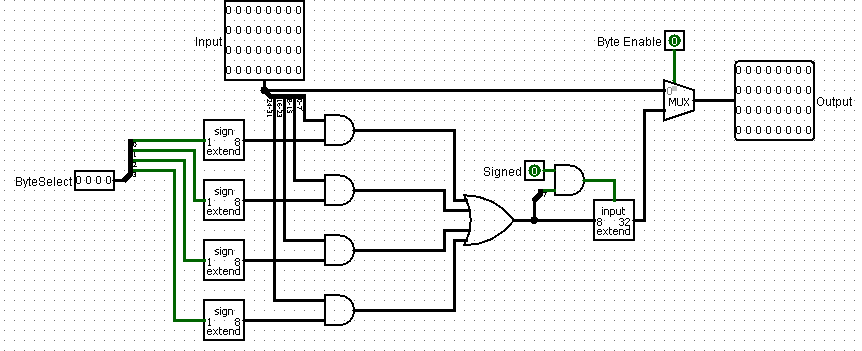
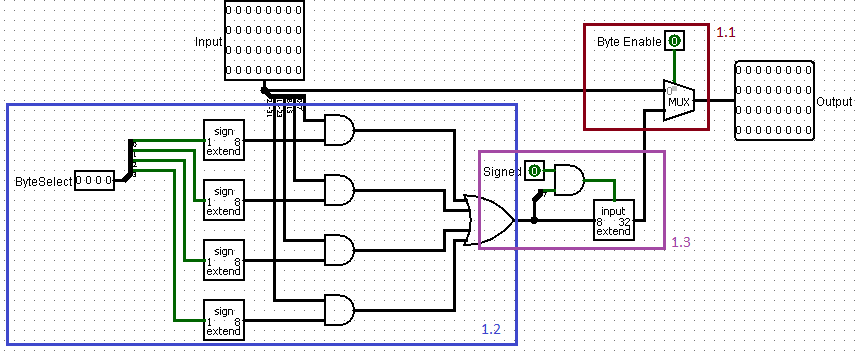
fd

Changed region(s): [[0.0, 0.2849, 0.8144, 0.9972], [0.6636, 0.057, 0.8445, 0.3704]]

diff --git a/3410proj/DesignDoc/ex.tex b/3410proj/DesignDoc/ex.tex
@@ -135,6 +135,39 @@ The final output is the Byte Select. The AND gates in (1.2) extract from the fir
 \includegraphics{ByteExtract.png} 
  The Byte Extract, much as the name suggests, extracts the byte from RAM output in LB and LBU instructions, and does nothing otherwise.
  
- From the MUX in (1.1), the 
+ From the MUX in (1.1), the output is just the original input if the memory instruction is a word instruction. 
+ 
+ In (1.2), since the Byte select will only have 1 nonzero bit if the memory instruction is a byte instruction, 3 of the sign extends will output all 0s and 1 will output all 1s. Each of them are ANDed with a byte from the Input; only one of those bytes will retain its information. These 4 lines are ORed and we are left with the byte that we need to extract. Finally in (1.3), the byte is zero extended or sign extended according to the instruction.
+ 
+\subsubsection{Linking Helper}
+\includegraphics{Linking.png}
+This subcircuit is relatively simple and only exists to simplify the main circuit. In (1.1), "rd out" is either the original "rd in", or 31 if we are linking. The 31 is created by sign extending the linking variable to 11111.
+
+"C out", the word that we want to store in rd, is simply chosen for by a MUX.
+
+\subsection{Load Stall and Jumping}
+\includegraphics{Disable.png}
+Load Stalling and Jumping happen when the instruction reaches the Memory Stage. The Load Stall line is achieved by ANDing the Load Enable and the output from the Execute Stage indicating whether or not the rs and rt from the Execute Stage coincide with the rd in the Memory Stage. The Jump Variable is just given from the EX/MEM registers. 
+
+Our Load Stall works by disabling the IF/ID, ID/EX, and PC registers and disabling the Jump Variable, Load Enable, and the two Write Enables in the Execute Stage (effectively canceling the instruction). 
+
+Our Jump also disables the same 4 variables, but in the Decode Stage, which is the instruction after the Delay Slot. The target address and the Jump Variable are fed into the Instruction Fetch Stage to do the actual Jump.
+
+\subsection{Correctness Constraints}
+\begin{itemize}
+\item
+Assuming all preceding stages are correct, the main constraint for the Memory Stage is the RAM Write Address has to be a valid word address if the associated memory instruction is a word instruction. Technically our circuit would treat the address as if the first two bits indicating bytes were 0s. We don't have a method to call an error, thus we are limited in this way.
+\end{itemize}
+
+\subsection{Testing}
+Testing for the Memory Stage is essentially testing memory instructions.
+
+Load Word is tested by storing a word first, then loading it into the register file, so it makes sense to test Store Word first.
+
+Testing storing word basically 
+
+The main thing we need to check for the Load instructions is whether or not the Stall works properly. We make sure that 1 step forwarding stalls properly. We also make sure that 2 step forwarding does not stall and that non forwarded Load instructions don't stall. 
+
+T  
 
 \end{document}
